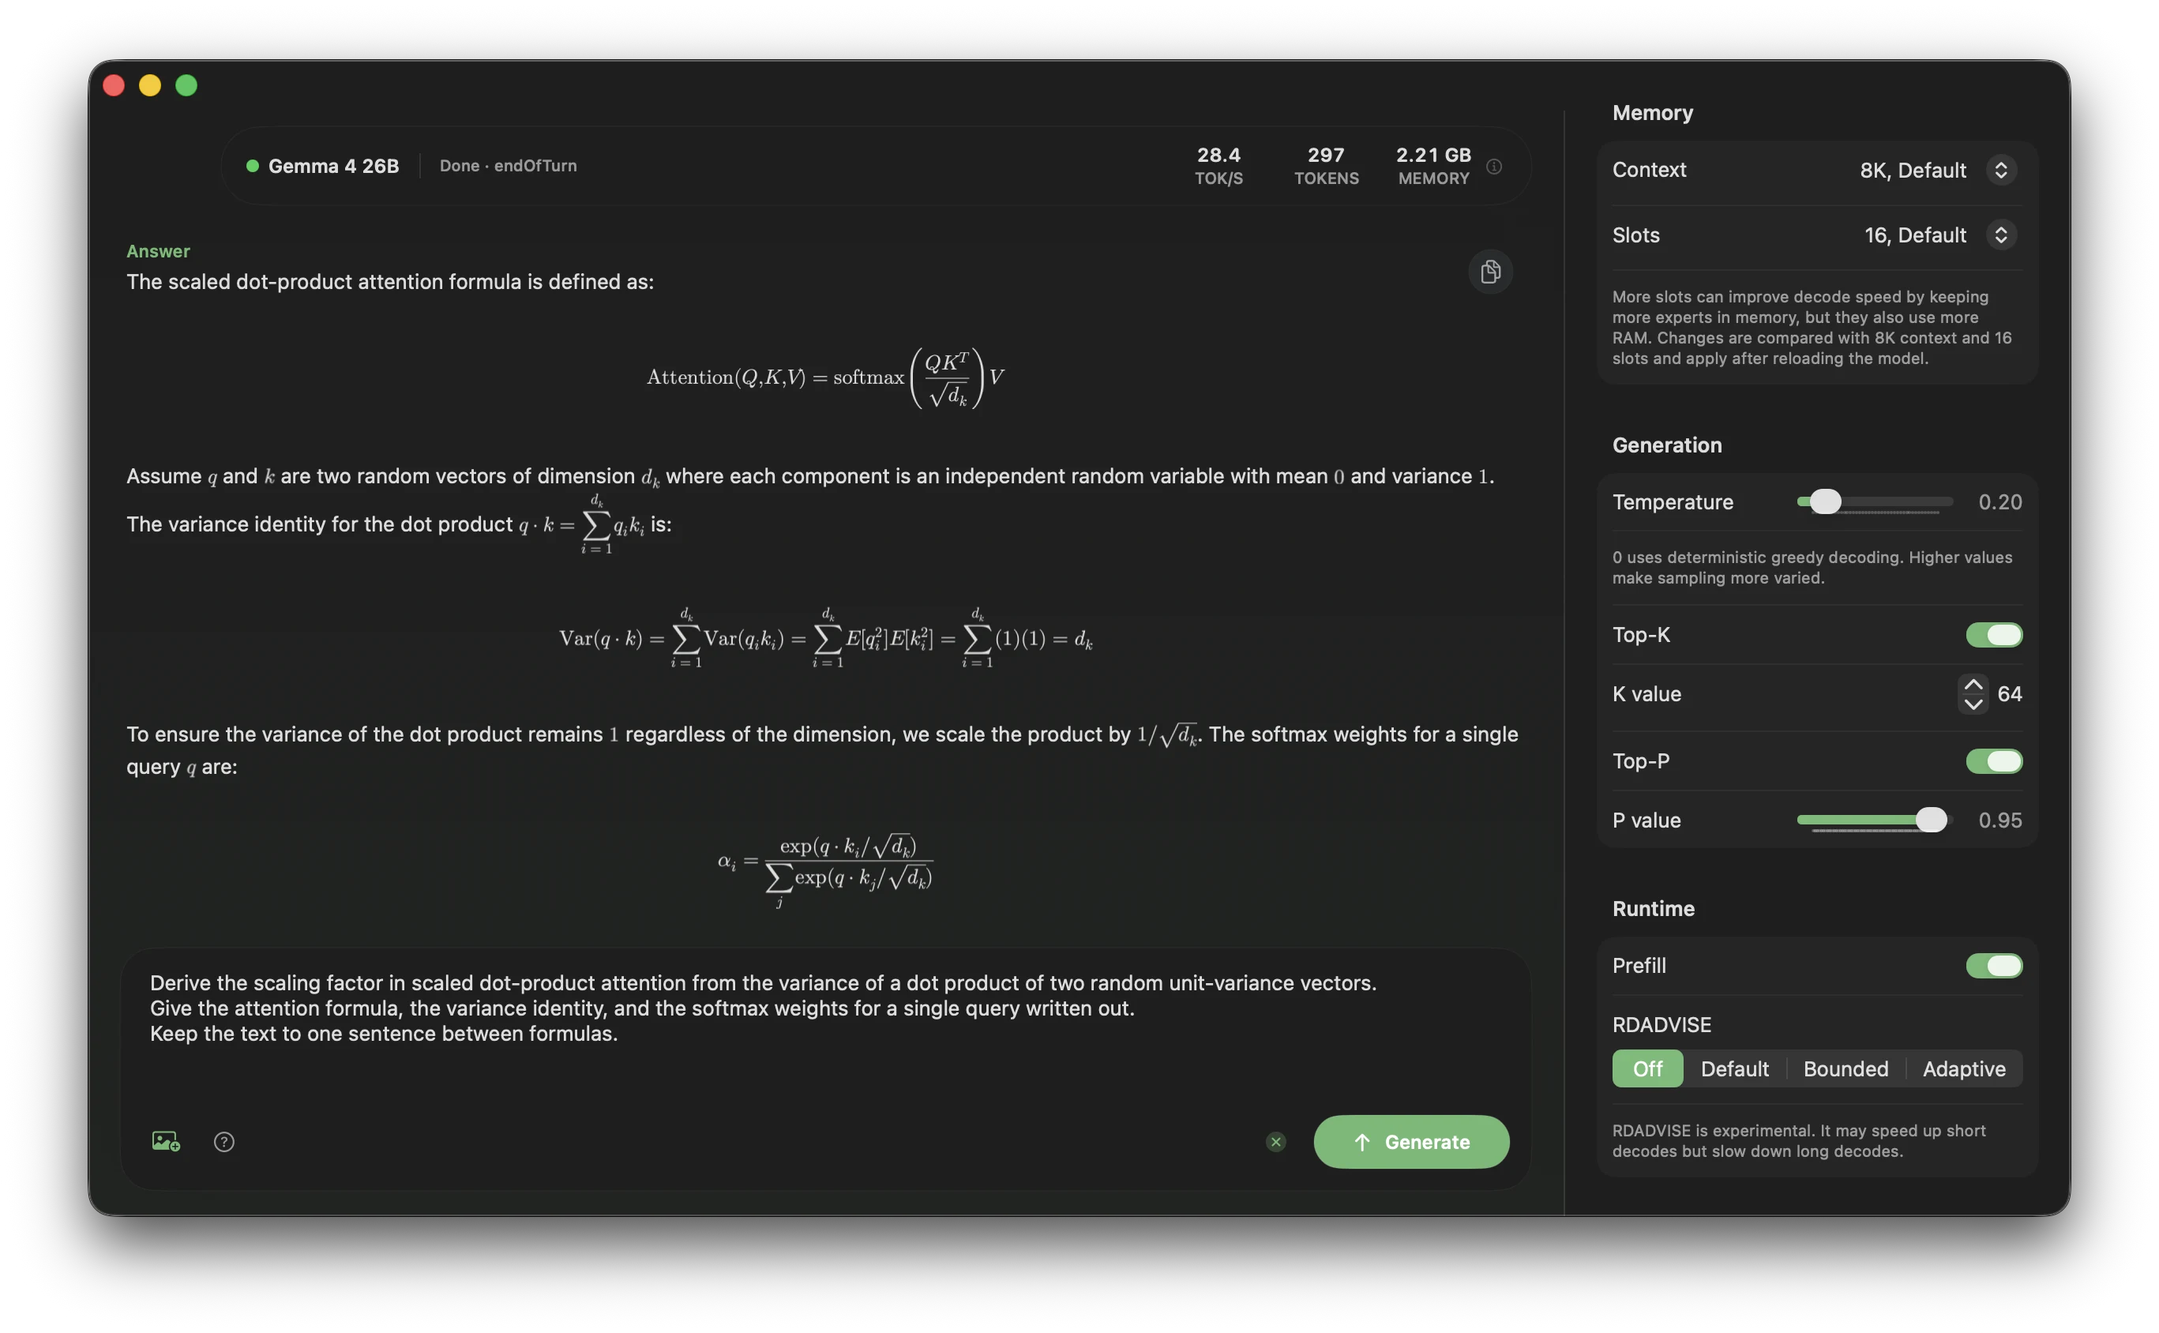
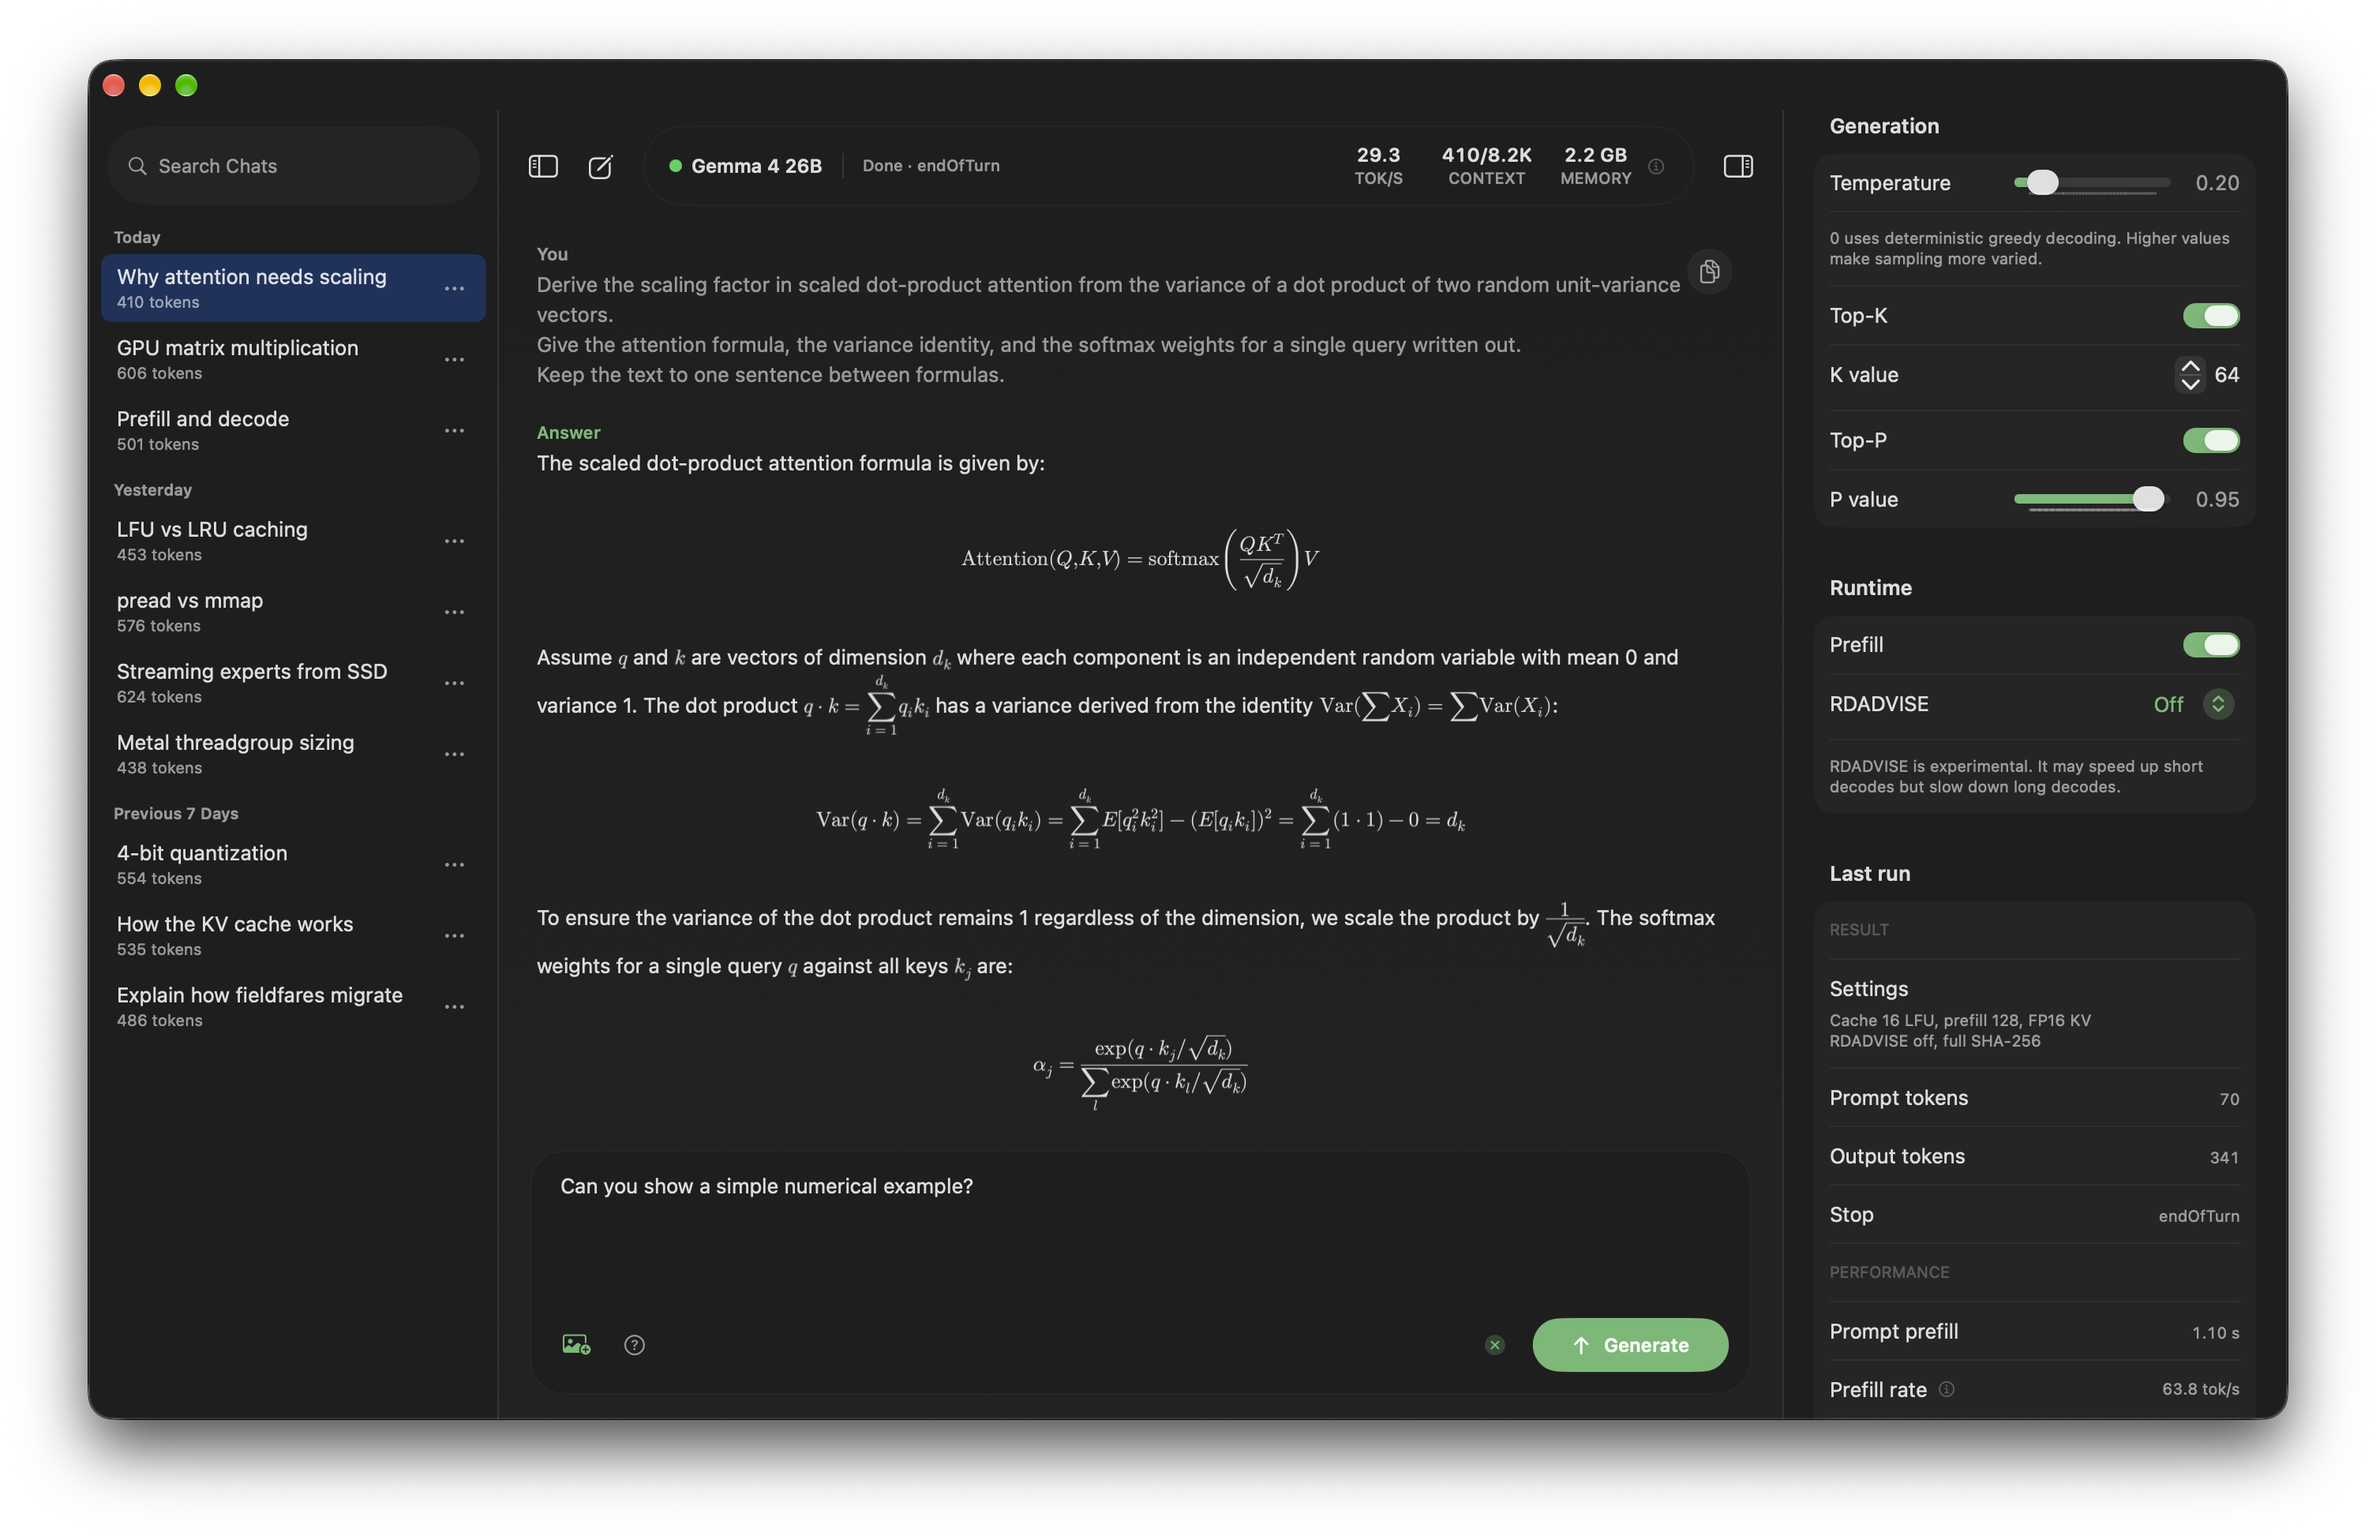
Improve run-report settings layout and refresh app screenshot (#201)
* Improve run-report settings layout and refresh app screenshot

* Let run-report settings wrap naturally

diff --git a/Sources/TurboFieldfareApp/Mac/Diagnostics/RunnerDiagnosticsSection.swift b/Sources/TurboFieldfareApp/Mac/Diagnostics/RunnerDiagnosticsSection.swift
@@ -9,7 +9,15 @@ struct RunnerDiagnosticsSection: View {
         Section("Last run") {
             if let diagnostics {
                 groupLabel("Result")
-                DiagnosticRow("Settings", diagnostics.runtimeOptions.resultSummary, multiline: true)
+                VStack(alignment: .leading, spacing: 6) {
+                    Text("Settings")
+                    Text(diagnostics.runtimeOptions.resultSummary)
+                        .font(.caption)
+                        .foregroundStyle(.secondary)
+                        .textSelection(.enabled)
+                        .fixedSize(horizontal: false, vertical: true)
+                }
+                .frame(maxWidth: .infinity, alignment: .leading)
                 DiagnosticRow("Prompt tokens", diagnostics.promptTokenCount.map(String.init) ?? "unknown")
                 DiagnosticRow("Output tokens", "\(diagnostics.generatedTokens)")
                 DiagnosticRow("Stop", diagnostics.stopReason.rawValue)

diff --git a/README.md b/README.md
@@ -26,7 +26,7 @@
   <a href="docs/IMPLEMENTATION_REFERENCES.md">References</a>
 </p>
 
-![TurboFieldfare Mac app generating text with Gemma 4 26B-A4B](docs/assets/turbofieldfare-app.webp)
+![TurboFieldfare Mac app with local chat history, LaTeX rendering, and run statistics](docs/assets/turbofieldfare-app.webp)
 
 Memory got expensive. So I gave a 26-billion-parameter model a ~2 GB budget.
 
